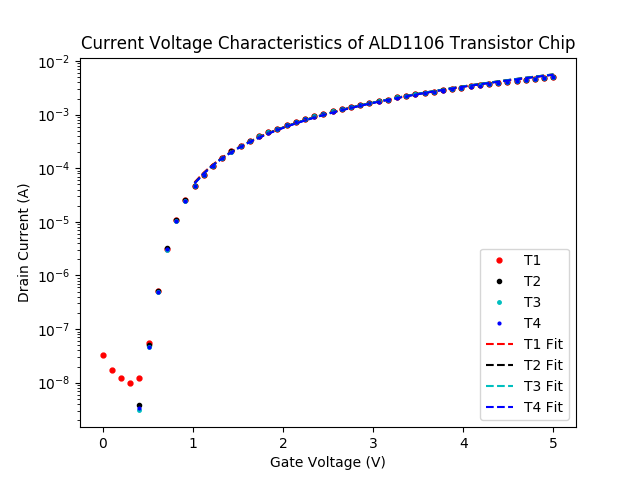
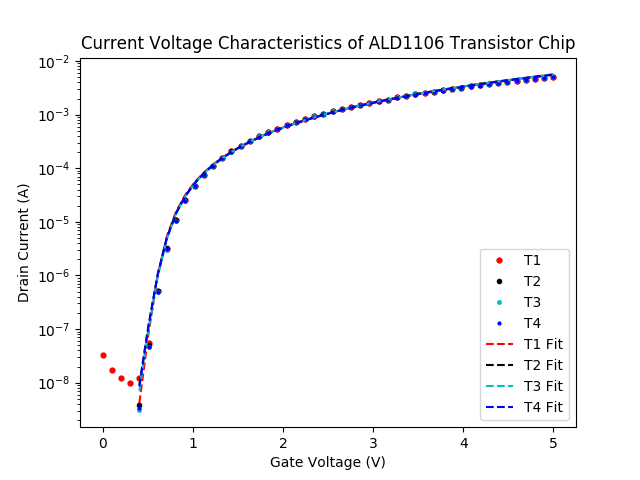
added lab 6

diff --git a/lab 6/Exp1/CVplot.py b/lab 6/Exp1/CVplot.py
@@ -93,11 +93,11 @@ Data1 = plt.semilogy(Vg1, Id1, 'ro', markersize=3.5, label="T1")
 Data2 = plt.semilogy(Vg2, Id2, 'ko', markersize=3, label="T2")
 Data3 = plt.semilogy(Vg3, Id3, 'co', markersize=2.5, label="T3")
 Data4 = plt.semilogy(Vg4, Id4, 'bo', markersize=2, label="T4")
-
-Data5 = plt.semilogy(Vg1[10:], TheoI1[10:], 'r--', markersize=3.5, label="T1 Fit")
-Data6 = plt.semilogy(Vg2[10:], TheoI2[10:], 'k--', markersize=3, label="T2 Fit")
-Data7 = plt.semilogy(Vg3[10:], TheoI3[10:], 'c--', markersize=2.5, label="T3 Fit")
-Data8= plt.semilogy(Vg4[10:], TheoI4[10:], 'b--', markersize=2, label="T4 Fit")
+start = 4
+Data5 = plt.semilogy(Vg1[start:], TheoI1[start:], 'r--', markersize=3.5, label="T1 Fit")
+Data6 = plt.semilogy(Vg2[start:], TheoI2[start:], 'k--', markersize=3, label="T2 Fit")
+Data7 = plt.semilogy(Vg3[start:], TheoI3[start:], 'c--', markersize=2.5, label="T3 Fit")
+Data8= plt.semilogy(Vg4[start:], TheoI4[start:], 'b--', markersize=2, label="T4 Fit")
 
 plt.xlabel(xLabel)
 plt.ylabel(yLabel)
